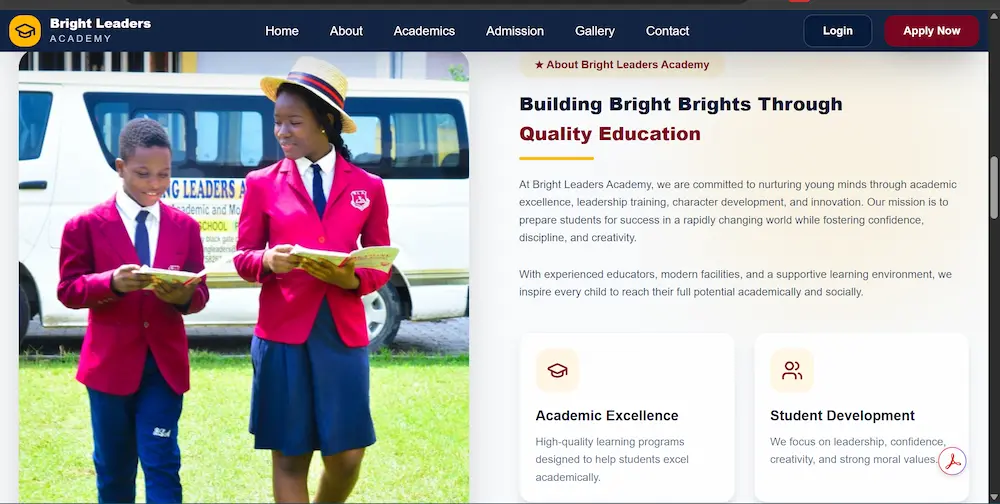
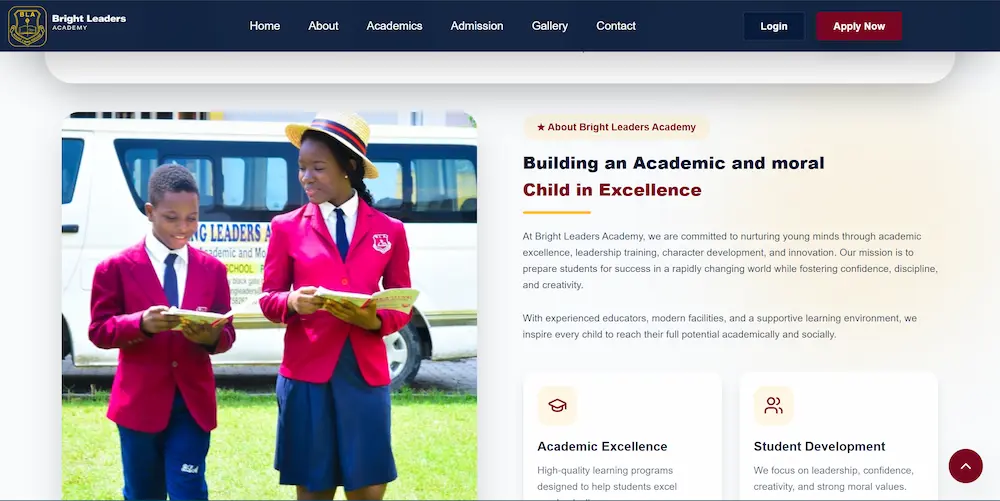
changed project image to recent edition

diff --git a/index.html b/index.html
@@ -136,7 +136,7 @@
 
                   <div class="project">
                     <div class="top">
-                      <span class="titlez">Bright Leaders Academy Schools Website</span>
+                      <span class="titlez">Bright Leaders Academy</span>
                       <span class="percent">0%</span>
                     </div>
                     <div class="progress-bar">
@@ -146,7 +146,7 @@
 
                   <div class="project">
                     <div class="top">
-                      <span class="titlez">Cherie Give Resultz Website</span>
+                      <span class="titlez">Apex Workforce</span>
                       <span class="percent">0%</span>
                     </div>
                     <div class="progress-bar">
@@ -423,16 +423,8 @@
 
         <div id="project_divs_holder">
 
-        <!-- FIRST 2 -->
-         <div class="project_divs project-card" data-aos="fade-up" data-aos-delay="200">
-          <img src="img/favsman.webp" class="project_images" alt="" />
-
-        <div class="overlay">
-          <a href="https://favsman-artistry-and-interiors-ltd.netlify.app/" target="_blank" class="explore">View Live</a>
-        </div>
-        <h5 class="project-title">Favsman artistry</h5>
-         </div>
-                  <!-- cherie -->
+        <!-- FIRST 1 -->
+                   <!-- cherie -->
          <div class="project_divs project-card" data-aos="fade-up" data-aos-delay="300">
           <img src="img/cherie give2.webp" class="project_images" alt="" />
 
@@ -442,9 +434,17 @@
         <h5 class="project-title">Cherie Give Resultz</h5>
          </div>
 
-       <!-- HIDDEN -->
+                        <!-- Bright leaders -->
+         <div class="project_divs project-card" data-aos="fade-up" data-aos-delay="300">
+          <img src="img/bright-leaders.webp" class="project_images" alt="" />
 
-        <!-- ramto -->
+        <div class="overlay">
+           <a href="#" target="_blank" class="explore">View Live</a>
+        </div>
+        <h5 class="project-title">Bright Leaders Academy</h5>
+         </div>
+
+          <!-- ramto -->
          <div class="project_divs project-card" data-aos="fade-up" data-aos-delay="300">
           <img src="img/ramto.webp" class="project_images" alt="" />
 
@@ -455,15 +455,16 @@
          </div>
 
 
-                       <!-- Bright leaders -->
-         <div class="project_divs project-card" data-aos="fade-up" data-aos-delay="300">
-          <img src="img/bright-leaders.webp" class="project_images" alt="" />
+            <!-- favsman artistry -->
+         <div class="project_divs project-card" data-aos="fade-up" data-aos-delay="200">
+          <img src="img/favsman.webp" class="project_images" alt="" />
 
         <div class="overlay">
-           <a href="#" target="_blank" class="explore">View Live</a>
+          <a href="https://favsman-artistry-and-interiors-ltd.netlify.app/" target="_blank" class="explore">View Live</a>
         </div>
-        <h5 class="project-title">Bright Leaders Academy</h5>
+        <h5 class="project-title">Favsman artistry</h5>
          </div>
+         
 
                   <!-- Mr chuks website -->
          <div class="project_divs project-card" data-aos="fade-up" data-aos-delay="300">
